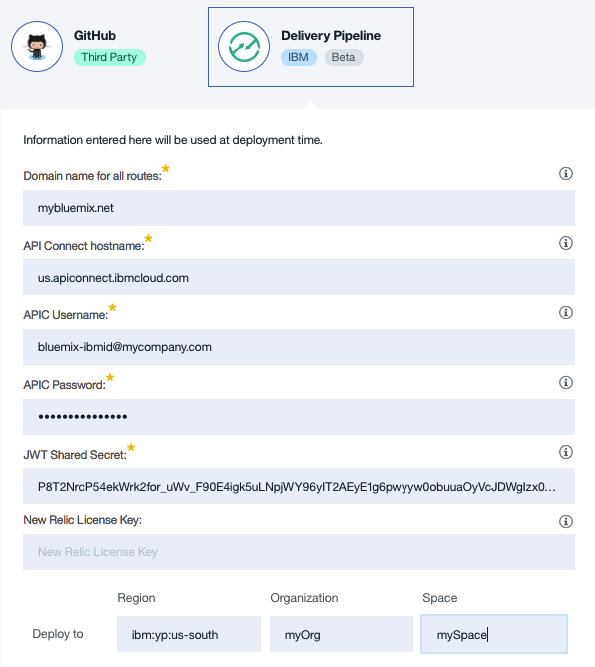
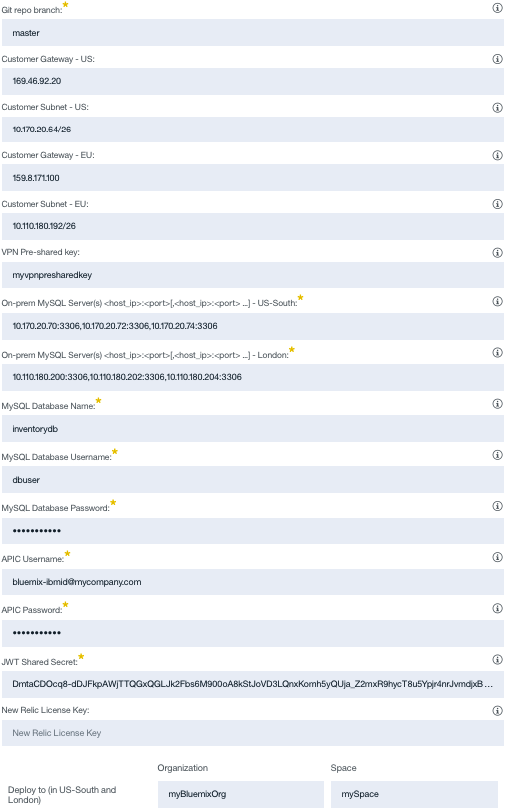
r2 readme updates

diff --git a/README.md b/README.md
@@ -17,15 +17,32 @@ Let's get started.
 
 ## Setup BlueCompute application using Bluemix DevOps open toolchain
 
-With the open toolchain, you should be able to stand up the entire application stack, including API gateway, Database, computing component, with little manual configuration.
+Bluemix DevOps toolchain provided with this application integrates the source code in git repositories with deployment scripts to continuously deliver code changes to staging and production applications.
+
+To demonstrate hybrid connectivity, the inventory microservice in BlueCompute application is setup to connect to a MySQL cluster in US and London regions. Setup Vyatta network gateway appliances in SoftLayer US and London regions, and then setup MySQL servers in both regions.
 
 ### Prerequisites
 
 You need to have a Bluemix account. Login to your Bluemix account or register for a new account [here](https://bluemix.net/registration)
 
-Once you have logged in, create a new space for hosting the application.
+Once you have logged in, create a new space for hosting the application in US-South and London regions. Use the same space name in both regions.
 
-### Step 1:  Provision the API Connect Service
+### Step 1: Setup VPN Tunnel and MySQL servers in SoftLayer
+
+See [VPN and MySQL instructions](https://github.com/ibm-cloud-architecture/refarch-cloudnative-resiliency/blob/master/mysql/README.md#set-up-vpn-tunnel-between-bluemix-and-on-premise-resources) to setup on-premise MySQL server accessible from Bluemix service over a VPN tunnel.
+
+After setting up the vpn tunnel and MySQL servers, get following information to set in toolchain configuration.
+
+||US-South|London|
+|---|---|---|
+|Vyatta Gateway Address|||
+|VPN Pre-shared Key|||
+|Subnet with MySQL servers|||
+|MySQL server addresses|ipaddr:port[,ipaddr:port]..|||
+
+
+
+### Step 2:  Provision the API Connect Service
 
 1. Click on the Bluemix console and select API.  
 2. Select the API Connect service.  
@@ -38,30 +55,32 @@ Once you have logged in, create a new space for hosting the application.
 provision a portal for you. You should receive a message like the one below. ![API Info](static/imgs/bluemix_9.png?raw=true)
 9. Once the new Developer Portal has been created, you will receive an email.
 
-### Step 2: Create the Bluemix DevOps toolchain
-Click the following button to deploy the toolchain to Bluemix. The Bluemix DevOps runtime will parse the toolchain template file and creates associated DevOps components such as GitHub repos and Delivery Pipelines.
+### Step 3: Create the Bluemix DevOps toolchain
+Click the following button to deploy the toolchain to Bluemix. The Bluemix DevOps runtime will parse the toolchain template file that creates and integrates GitHub repos and Continuous Delivery pipelines to deploy to a targetted space in US-South and London Bluemix regions.
 
 [![Create BlueCompute Deployment Toolchain](https://new-console.ng.bluemix.net/devops/graphics/create_toolchain_button.png)](https://new-console.ng.bluemix.net/devops/setup/deploy/?repository=https%3A//github.com/ibm-cloud-architecture/refarch-cloudnative-devops.git&branch=master)
 
 1. Enter toolchain name in the **Name:** field. ![Create Toolchain](static/imgs/create-toolchain.png)
 2. By default, the **GitHub** integration is configured to clone the associated git repos to your GitHub account. Click on **GitHub** integration to see the list of repos that are setup to clone to your account.
 3. Click on **Delivery Pipeline** integration to do the configuration. ![Configure Delivery Pipeline](static/imgs/configure-delivery-pipeline.png)
-4. By default the Bluemix Region, Organization, and Space information will be filled with the logged in Region, Organization, and Space values. Double-check to ensure this is the desired Region, Organization, and Space this toolchain should deploy to and update __Region__, __Organization__, and __Space__ values accordingly.
-5. Adjust the __Domain name__ and __API Connect hostname__ to match the region.
+4. By default the Bluemix Organization, and Space information will be filled with the logged in Region, Organization, and Space values. Double-check to ensure this is the desired Region, Organization, and Space this toolchain should deploy to and update __Region__, __Organization__, and __Space__ values accordingly.
+5. Enter __Customer Gateway__, __Customer Subnet__, __VPN Preshared key__, and __Onprem MySQL server__ addresses for both US-South and London regions based on information collected in Step 1.
 6. Enter __APIC Username__ and __Password__. These are Bluemix credentials, which are IBMid username and password with administrative access to API Developer Portal in the corresponding Bluemix space.
 7. Go to [JSON Web Key Generator](https://mkjwk.org/#shared). Switch to __Shared Secret__ tab, set __Key Size: 2048__, __Key Use: Signing__, __Algorithm: HS256__ and click on __New Key__ button. Copy the generated key displayed in the output box titled __Key__ identified by __"k"__ field. Paste this key value in the __JWT Shared Secret__ input field on the create toolchain form.
-9. Containers deployed by this toolchain are enabled for New Relic monitoring. Enter __New Relic License Key__ to monitor the deployed containers.
-10. Click **Create** to create the toolchain.
-11. Click on **View Toolchain** to go to the toolchain page. This toolchain will create and integrate eight GitHub repos with Issues enabled, and eight Delivery Pipelines each connected to one of the integrated GitHub repos. Configuration data is shared between all the delivery pipelines.
+8. Containers deployed by this toolchain are enabled for New Relic monitoring. Enter __New Relic License Key__ to monitor the deployed containers.
+9. Click **Create** to create the toolchain.
+10. Click on **View Toolchain** to go to the toolchain page. This toolchain will create and integrate eight GitHub repos with Issues enabled, and eight Delivery Pipelines each connected to one of the integrated GitHub repos. Configuration data is shared between all the delivery pipelines.
 
-### Step 3: Execute the toolchain
-1. Click on **inventorydb-mysql** delivery pipeline, and click the play button on BUILD stage to initiate the build and deployment of MySQL container running the **inventorydb** database.
-2. After the BUILD stage completes successfully it will automatically trigger the DEPLOY stage. Stay on the pipeline page to ensure both the BUILD and DEPLOY stages completed successfully. ![Successfully Deployed Pipeline](static/imgs/inventorydb-mysql-pipeline.png)
-3. Repeat above two steps for each delivery pipeline in the following order: **netflix-eureka**, **netflix-zuul**, **micro-inventory**, **micro-socialreview**, **bff-inventory**, **api**, **bff-socialreview**.
+### Step 4: Execute the toolchain
+1. VPN connection should be established between VPN service in Bluemix region and the on-premise VPN gateway. Click on __Delivery Pipeline__ named __vpn__. Click on play button on __BUILD US-South__ and __BUILD London__ boxes.
+2. After the VPN connections are established successfully, execute the remaining pipelines. Its recommended to start with __netflix-eureka__.
+3. For each pipeline, start deployment with __BUILD US-South__ stage. While that deployment is running, click on  __BUILD London__ to start deployment to London region.
+2. For each pipeline, the __DEPLOY__ stages will follow successful __BUILD__. On the pipeline page to ensure both the BUILD and DEPLOY stages completed successfully. ![Successfully Deployed Pipeline](static/imgs/netflix-eureka-pipeline.png)
+3. Repeat above steps for each delivery pipeline in the following order: **netflix-zuul**, **micro-inventory**, **micro-socialreview**, **bff-inventory**, **api**, **bff-socialreview**.
 
 This completes the creation of Bluemix DevOps toolchain to deploy the BlueCompute omnichannel application.
 
-### Step 4: Complete the solution
+### Step 5: Complete the solution
 
 After successfully running all the DevOps pipelines, you have the entire BlueCompute backend ready on IBM Cloud. There are 3 tasks remaining to get the BlueCompute application (both Mobile and Web) working:
 
